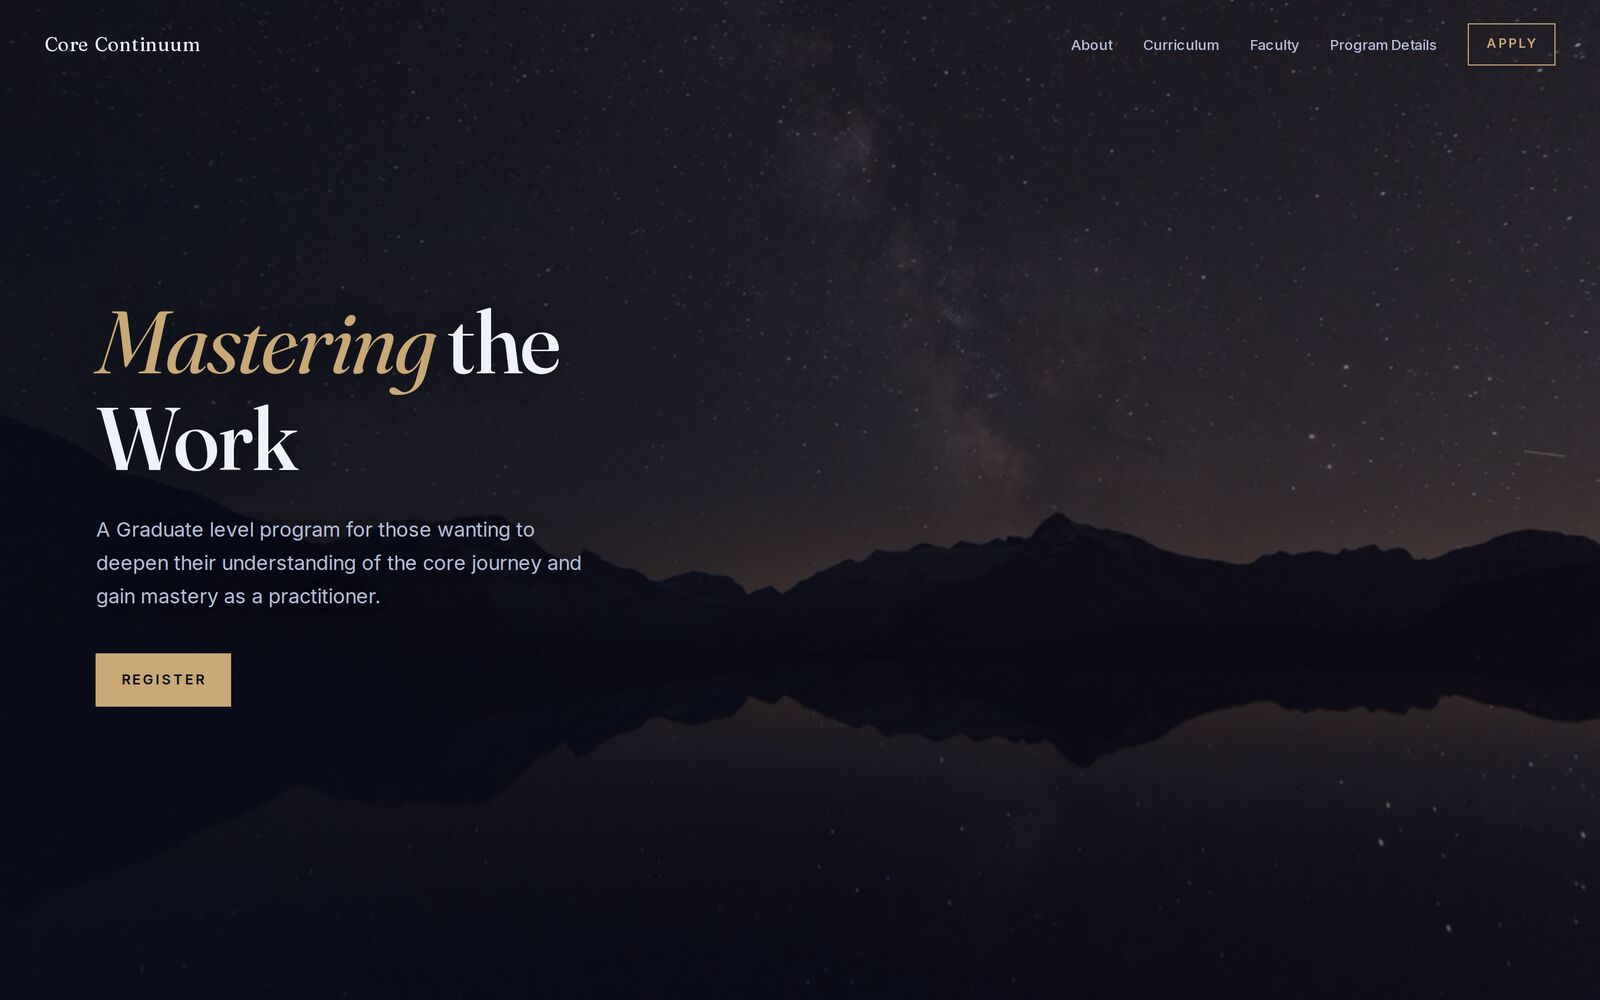
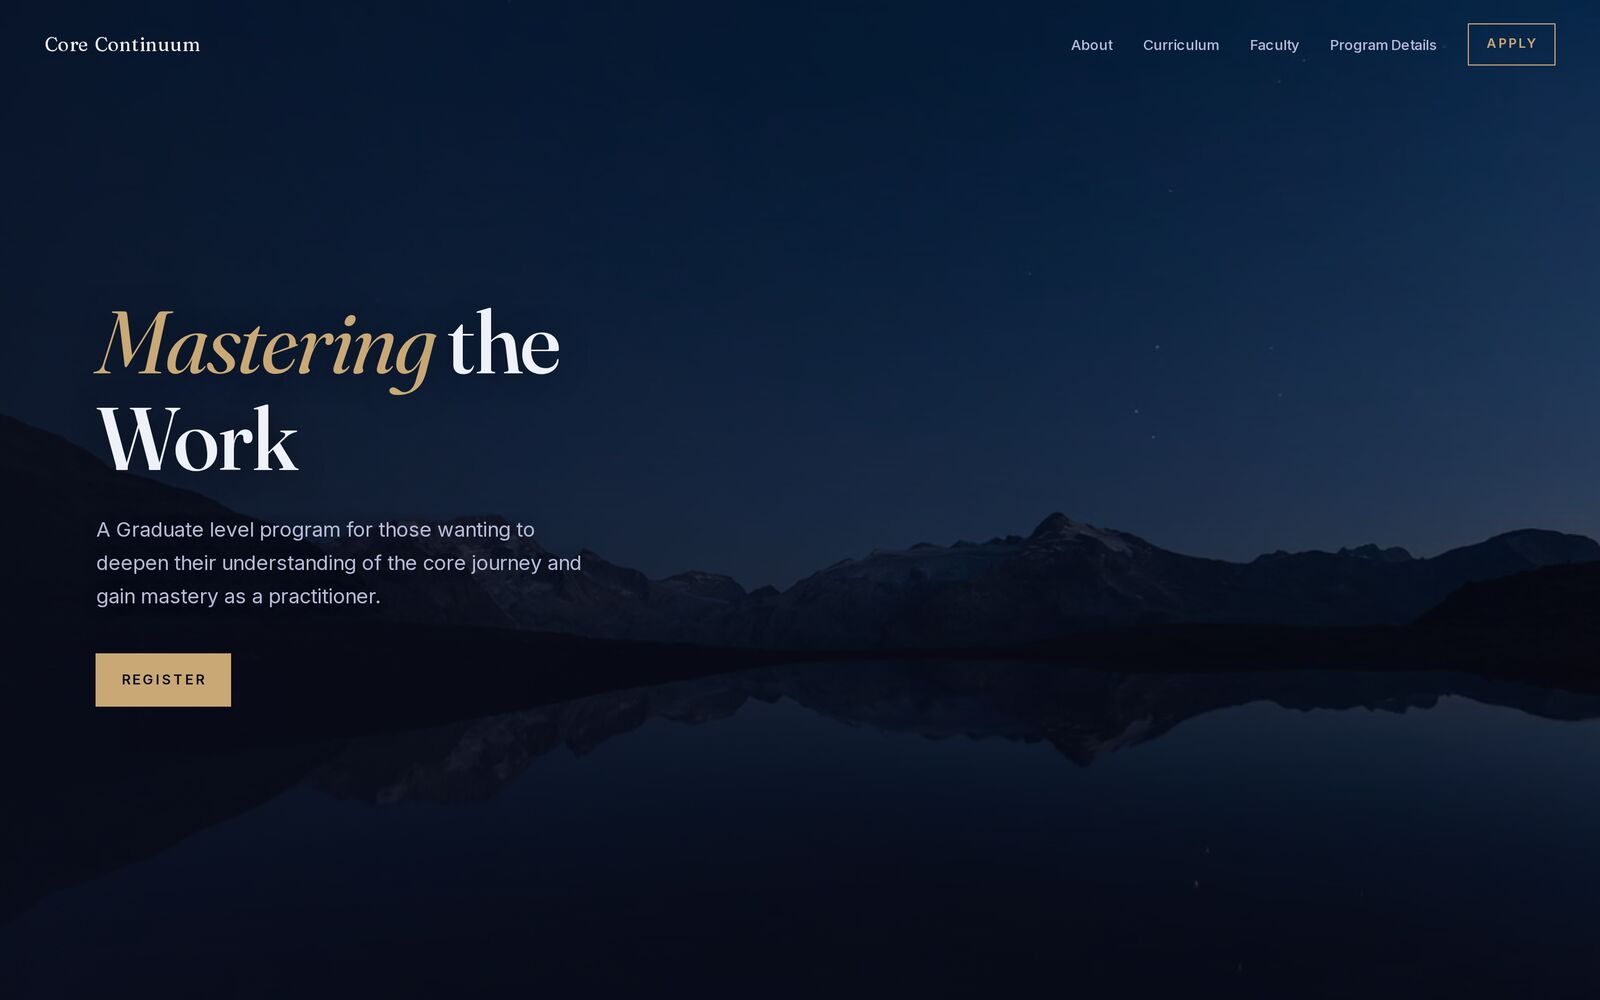
Add team project cards and a live landing screenshot for Core Continuum
- HydraX (Sheridan Datathon, team of 4) and Nutrition Tracker (team of 3)
  as equal cards, each with a "My part" note and an accurate stack
- Core Continuum image now shows the landing with its hero video playing
  (the previous capture only showed the poster image)
- "More on GitHub" moved to a slim full-width row

Claude-Session: https://claude.ai/code/session_01TnmPFGKPqsVYpBJ48UKQ3z

diff --git a/index.html b/index.html
@@ -111,7 +111,7 @@
         <header class="section-head reveal">
           <p class="kicker"><span>01</span>Projects</p>
           <h2>Things I’ve <em>built.</em></h2>
-          <p class="section-sub">A full-stack finance app, a live client website, and earlier work in machine learning.</p>
+          <p class="section-sub">A full-stack finance app, a live client website, and team projects in data and machine learning.</p>
         </header>
 
         <!-- Featured: Private Mortgage Manager -->
@@ -239,7 +239,7 @@
                 <picture>
                   <source srcset="assets/core-continuum.webp" type="image/webp" />
                   <img src="assets/core-continuum.jpg" width="1600" height="1000" loading="lazy" decoding="async"
-                       alt="Core Continuum homepage: a starry mountain-lake hero with the headline “Mastering the Work” and a Register button." />
+                       alt="Core Continuum homepage: a twilight mountain-lake video hero with the headline “Mastering the Work” and a Register button." />
                 </picture>
               </a>
             </div>
@@ -269,20 +269,27 @@
           </ul>
         </article>
 
-        <!-- Smaller projects -->
+        <!-- Team projects -->
         <div class="mini-grid">
           <article class="mini reveal" data-spotlight>
             <div class="project-meta">
-              <span class="tag">ML · Geospatial</span>
+              <span class="tag">Sheridan Datathon</span>
+              <span class="tag">Team of 4</span>
+              <span class="tag">2025</span>
             </div>
             <h3>HydraX</h3>
             <p>
-              Rainwater-harvesting analytics for London, UK: rooftop areas from
-              OpenStreetMap, historical rainfall data and machine-learning forecasts,
-              mapped to show where collection would make the biggest difference.
+              How much rainwater could London’s rooftops capture? Enter an address and
+              HydraX finds the building’s roof area from city-wide footprint data, pairs it
+              with Heathrow rainfall history and a random-forest rainfall model, and reports
+              the yearly collection potential.
             </p>
+            <div class="my-part">
+              <h4>My part</h4>
+              <p>The impact page (address in, results out), the London rainfall dataset, and the backend fixes that got address search returning the right building.</p>
+            </div>
             <ul class="stack" aria-label="Built with">
-              <li>Python</li><li>TensorFlow</li><li>scikit-learn</li><li>React</li><li>Geocoding API</li>
+              <li>Python</li><li>Flask</li><li>scikit-learn</li><li>pandas</li><li>Next.js</li><li>TypeScript</li>
             </ul>
             <a class="text-link" href="https://github.com/ubiqwit/HydraX" target="_blank" rel="noreferrer">
               View source
@@ -290,18 +297,45 @@
             </a>
           </article>
 
-          <a class="mini mini-link reveal" href="https://github.com/ubiqwit" target="_blank" rel="noreferrer" data-spotlight>
+          <article class="mini reveal" data-spotlight>
             <div class="project-meta">
-              <span class="tag">GitHub</span>
+              <span class="tag">Sheridan College</span>
+              <span class="tag">Team of 3</span>
+              <span class="tag">2025</span>
             </div>
-            <h3>More on GitHub</h3>
-            <p>Other repositories, experiments and work in progress.</p>
-            <span class="text-link">
-              github.com/ubiqwit
+            <h3>Nutrition Tracker</h3>
+            <p>
+              A web app for logging meals and tracking nutrients against personal goals,
+              built on the USDA’s FNDDS food and nutrient database — converted from JSON
+              into a relational SQLite database.
+            </p>
+            <div class="my-part">
+              <h4>My part</h4>
+              <p>The diet-log flow from food search to daily log, the food services layer, diet goals, and the nutrient tracker chart that plots intake against each goal.</p>
+            </div>
+            <ul class="stack" aria-label="Built with">
+              <li>C#</li><li>ASP.NET Core MVC</li><li>EF Core</li><li>SQLite</li><li>Google Charts</li>
+            </ul>
+            <a class="text-link" href="https://github.com/moss951/Nutrition-App-MVC" target="_blank" rel="noreferrer">
+              View source
               <svg class="i-arrow" viewBox="0 0 16 16" aria-hidden="true"><path d="M5 11 11 5M6 5h5v5"/></svg>
-            </span>
-          </a>
+            </a>
+          </article>
         </div>
+
+        <a class="github-row reveal" href="https://github.com/ubiqwit" target="_blank" rel="noreferrer">
+          <span class="github-row-icon" aria-hidden="true">
+            <svg viewBox="0 0 24 24"><path fill="currentColor" d="M12 2a10 10 0 0 0-3.16 19.49c.5.09.68-.22.68-.48v-1.7c-2.78.6-3.37-1.34-3.37-1.34-.46-1.16-1.11-1.47-1.11-1.47-.91-.62.07-.6.07-.6 1 .07 1.53 1.03 1.53 1.03.9 1.52 2.34 1.08 2.91.83.09-.65.35-1.09.63-1.34-2.22-.25-4.55-1.11-4.55-4.94 0-1.09.39-1.98 1.03-2.68-.1-.25-.45-1.27.1-2.64 0 0 .84-.27 2.75 1.02a9.58 9.58 0 0 1 5 0c1.91-1.29 2.75-1.02 2.75-1.02.55 1.37.2 2.39.1 2.64.64.7 1.03 1.59 1.03 2.68 0 3.84-2.34 4.68-4.57 4.93.36.31.68.92.68 1.85v2.75c0 .27.18.58.69.48A10 10 0 0 0 12 2Z"/></svg>
+          </span>
+          <span class="github-row-text">
+            <strong>More on GitHub</strong>
+            <span>Other repositories, experiments and work in progress.</span>
+          </span>
+          <span class="text-link">
+            github.com/ubiqwit
+            <svg class="i-arrow" viewBox="0 0 16 16" aria-hidden="true"><path d="M5 11 11 5M6 5h5v5"/></svg>
+          </span>
+        </a>
       </div>
     </section>
 

diff --git a/styles.css b/styles.css
@@ -766,7 +766,7 @@ em {
 /* Smaller projects */
 .mini-grid {
   display: grid;
-  grid-template-columns: 1.5fr 1fr;
+  grid-template-columns: repeat(2, minmax(0, 1fr));
   gap: 24px;
   margin-top: 24px;
 }
@@ -796,9 +796,72 @@ em {
   font-size: 15.5px;
 }
 
-.mini .text-link { margin-top: auto; }
-.mini-link:hover .text-link { color: var(--accent); }
-.mini-link:hover .i-arrow { transform: translate(2px, -2px); }
+.mini .stack { margin-top: auto; padding-top: 4px; }
+
+.my-part {
+  width: 100%;
+  padding: 14px 16px;
+  border-left: 2px solid var(--accent);
+  border-radius: 0 var(--radius-sm) var(--radius-sm) 0;
+  background: var(--accent-soft);
+}
+
+.my-part h4 {
+  margin-bottom: 4px;
+  color: var(--accent);
+  font-family: var(--font-mono);
+  font-size: 11px;
+  font-weight: 400;
+  letter-spacing: .06em;
+  text-transform: uppercase;
+}
+
+.my-part p {
+  color: var(--text-2);
+  font-size: 14.5px;
+}
+
+.github-row {
+  display: flex;
+  align-items: center;
+  gap: 18px;
+  margin-top: 24px;
+  padding: 20px 24px;
+  border: 1px solid var(--line);
+  border-radius: var(--radius);
+  background: rgba(255, 255, 255, .015);
+  transition: border-color 200ms ease, background 200ms ease;
+}
+
+.github-row:hover {
+  border-color: var(--line-strong);
+  background: rgba(255, 255, 255, .035);
+}
+
+.github-row-icon {
+  display: grid;
+  place-items: center;
+  flex: none;
+  width: 42px;
+  height: 42px;
+  border: 1px solid var(--line-strong);
+  border-radius: 12px;
+  color: var(--text);
+}
+
+.github-row-icon svg { width: 20px; height: 20px; }
+
+.github-row-text {
+  display: grid;
+  gap: 2px;
+  margin-right: auto;
+}
+
+.github-row-text strong { font-weight: 500; }
+.github-row-text span { color: var(--muted); font-size: 14.5px; }
+
+.github-row:hover .text-link { color: var(--accent); }
+.github-row:hover .i-arrow { transform: translate(2px, -2px); }
 
 /* ==========================================================================
    Experience
@@ -1375,6 +1438,10 @@ body.contact-open { overflow: hidden; }
   .features--4 { grid-template-columns: minmax(0, 1fr); }
 
   .project-links .btn { flex: 1 1 auto; }
+
+  .github-row { flex-wrap: wrap; }
+  .github-row-text { flex: 1 1 calc(100% - 60px); margin-right: 0; }
+  .github-row .text-link { margin-left: 60px; }
 
   .tl-item {
     grid-template-columns: minmax(0, 1fr);
